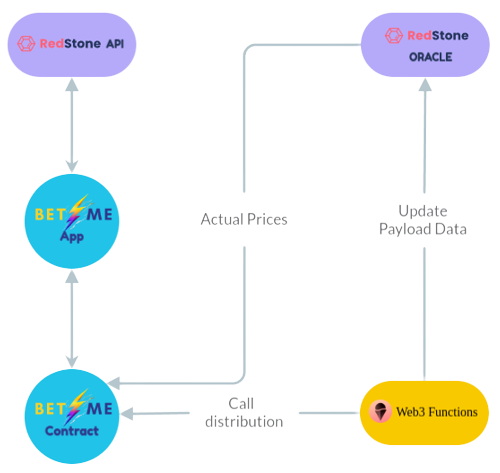
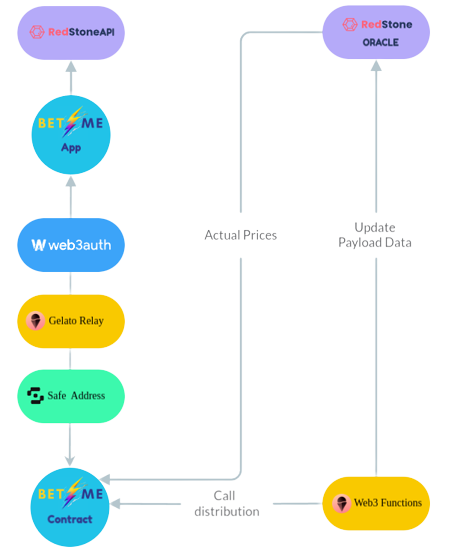
update tech

Changed region(s): [[0.0, 0.0, 0.9933, 1.0]]

diff --git a/src/components/sections/tech.jsx b/src/components/sections/tech.jsx
@@ -3,11 +3,11 @@ import { Button, Chip, Typography } from "@material-tailwind/react";
 import { CodePreview } from "../cards/code-preview";
 import logo1 from "../../assets/img/blue.png";
 import screen1 from "../../assets/img/screens/tech.png";
-import react from "../../assets/img/logos/react.png";
+import safe from "../../assets/img/logos/gnosis.png";
 import gelato from "../../assets/img/logos/gelato.png";
 import redstone from "../../assets/img/logos/redstone.png";
 import solidity from "../../assets/img/logos/solidity.png";
-import zkSync from "../../assets/img/logos/zk-sync.png";
+import web3auth from "../../assets/img/logos/web3auth.png";
 import { Link } from "@mui/material";
 
 
@@ -42,11 +42,11 @@ export default function SectionTech() {
               className="mr-6 w-16 cursor-pointer text-center"
             >
               <Link className="no-underline"
-                    href="https://reactjs.org/"
+                    href="https://safe.global"
               >
-                <img className="mx-auto" width={36} src={react}/>
+                <img className="mx-auto" width={36} src={safe}/>
                 <Typography className="mt-2 font-bold text-[#1A237E]">
-                  React
+                  Safe
                 </Typography>
               </Link>
             </div>
@@ -96,19 +96,18 @@ export default function SectionTech() {
 
             </div>
             <div className="relative mr-6 w-16 cursor-not-allowed text-center">
-              <div className="opacity-50">
-                <img className="mx-auto" width={36} src={zkSync}/>
+              <Link className="no-underline"
+                    href="https://web3auth.io/"
+              >
+                <img className="mx-auto" width={36} src={web3auth}/>
 
-              </div>
-              <Chip
-                value="soon"
-                variant="gradient"
-                className="absolute -top-3 rounded-full from-[#191919] to-[#42424a] py-1 px-2"
-              />
-              <Typography className="mt-2 font-bold text-[#1A237E]">
-                ZkSync
-              </Typography>
+                <Typography className="mt-2 font-bold text-[#1A237E]">
+                  Web3Auth
+                </Typography>
+              </Link>
             </div>
+
+
           </div>
 
         </div>
